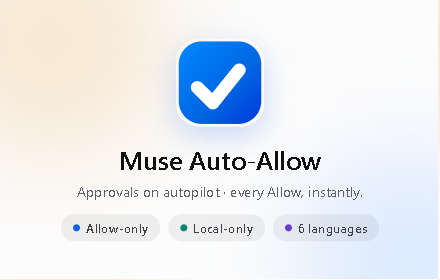
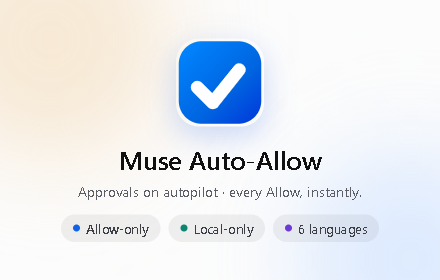
docs(store): fill the privacy-policy dates/homepage; re-render the promo assets to the current design
PRIVACY.md: effective date 2026-10-10 and last updated 2026-10-12 filled; the publisher/
homepage URL filled with the public repo; the support email stays the single owner TODO.
store/marquee1400x560.png, store/promo440x280.png, store/readme-hero.png and
store/screenshot4-overview.png were the 2026-10-10 renders (pre-Quiet-Luxury, pre-v1.9) and
have been re-rendered from their sources (scripts/render.mjs) so the store art matches the
current design.
NOTE (drift found and contained): the same render also produced slightly different
extension/icons/icon16.png + icon32.png (584->606 / 1156->1199 bytes) because the icon source
changed after the v1.9.2 freeze — the artifact must stay immutable, so the icons were backed
up to scratch and REVERTED; verify-zip is back to 18 matched / 0 mismatched. Re-rendering and
reviewing those two icons is queued for the next release (a visual delta to review, not a
silent one).

diff --git a/store/PRIVACY.md b/store/PRIVACY.md
@@ -1,7 +1,7 @@
 # Privacy Policy — Muse Auto-Allow
 
-**Effective date:** TODO: fill before submit (e.g. 2026-01-01)
-**Last updated:** TODO: fill before submit
+**Effective date:** 2026-10-10
+**Last updated:** 2026-10-12
 **Revision:** v1.8 (2026-10-10) — adds the `notifications` permission disclosure and the optional settings-sync disclosure.
 
 This privacy policy applies to the **Muse Auto-Allow** browser extension for Google
